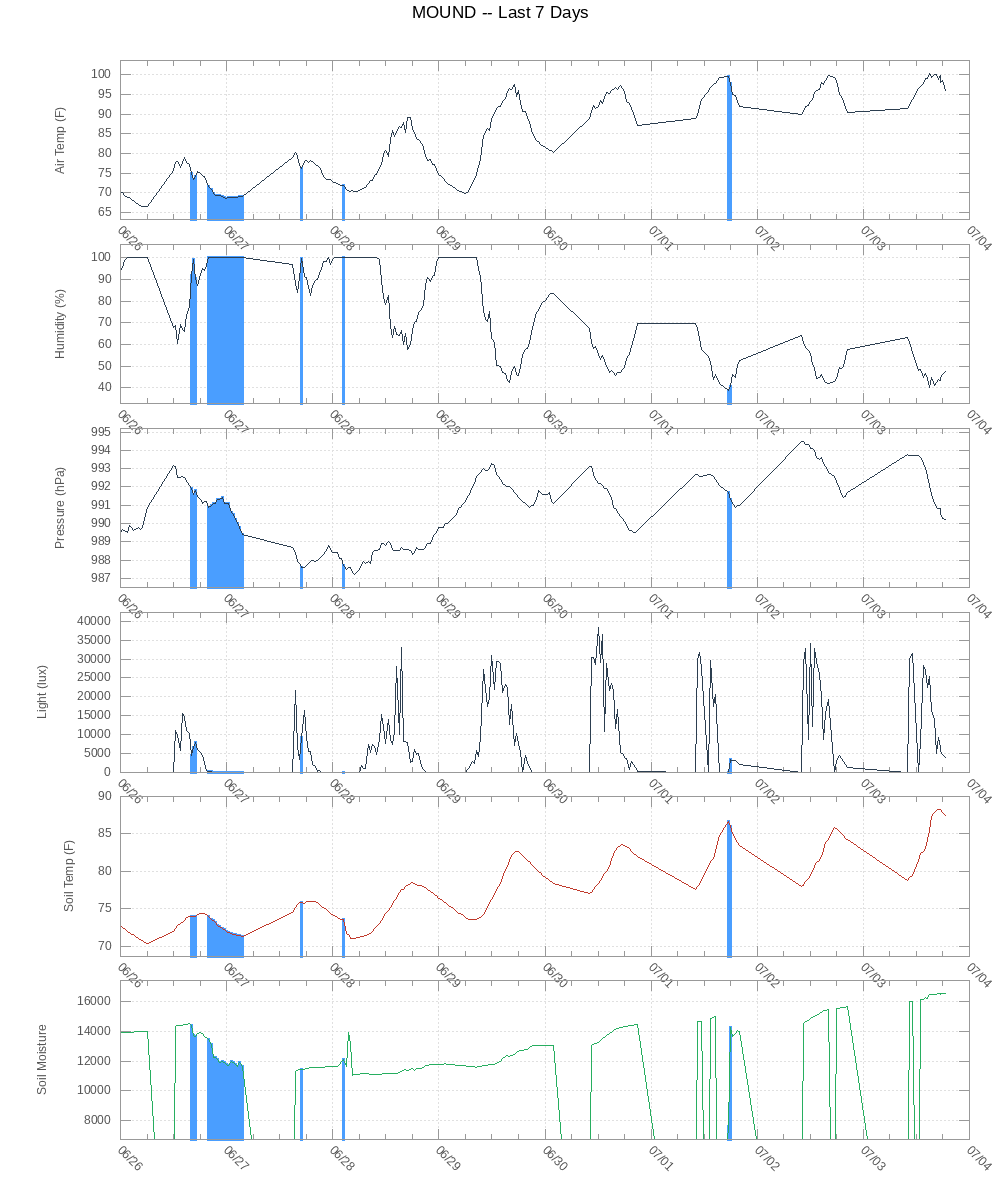
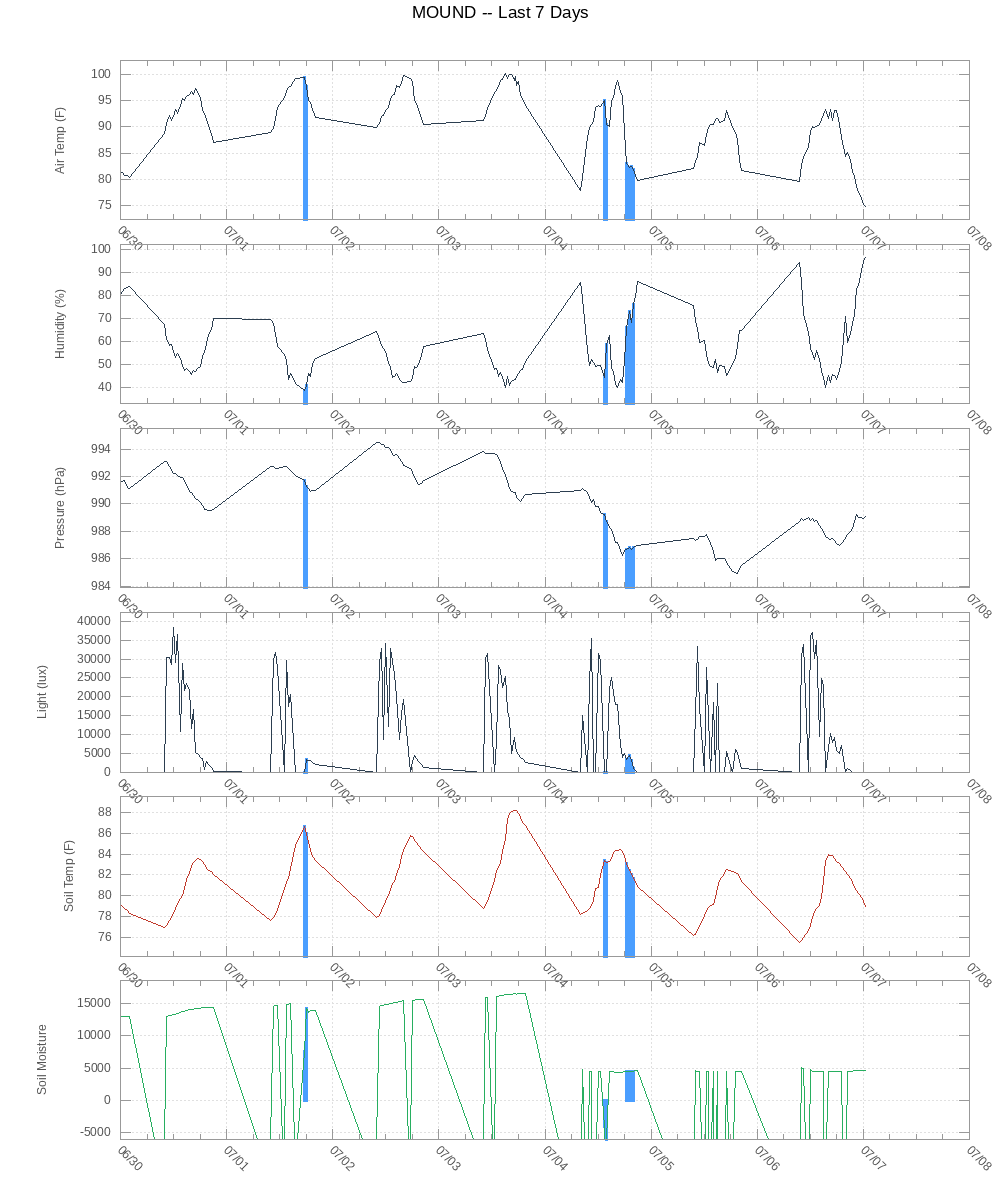
backup

diff --git a/mound/index.html b/mound/index.html
@@ -38,21 +38,21 @@
 
       <hr style="border:none; border-top: 1px solid #ccc; margin: 1rem 0;">
 
-      <p><strong>Last reading:</strong> 2026-07-06 10:30:04</p>
+      <p><strong>Last reading:</strong> 2026-07-07 09:30:04</p>
 
       <table style="border:none; border-collapse:collapse; font-family:inherit; font-size:inherit; color:inherit;">
-        <tr><td style="padding: 0.2rem 1.5rem 0.2rem 0;">Air Temperature</td><td>84.1 F</td></tr>
-        <tr><td style="padding: 0.2rem 1.5rem 0.2rem 0;">Humidity</td><td>71.8%</td></tr>
-        <tr><td style="padding: 0.2rem 1.5rem 0.2rem 0;">Pressure</td><td>988.8 hPa</td></tr>
-        <tr><td style="padding: 0.2rem 1.5rem 0.2rem 0;">Light</td><td>33773 lux</td></tr>
-        <tr><td style="padding: 0.2rem 1.5rem 0.2rem 0;">Soil Temperature</td><td>76.0 F</td></tr>
+        <tr><td style="padding: 0.2rem 1.5rem 0.2rem 0;">Air Temperature</td><td>79.6 F</td></tr>
+        <tr><td style="padding: 0.2rem 1.5rem 0.2rem 0;">Humidity</td><td>80.8%</td></tr>
+        <tr><td style="padding: 0.2rem 1.5rem 0.2rem 0;">Pressure</td><td>991.1 hPa</td></tr>
+        <tr><td style="padding: 0.2rem 1.5rem 0.2rem 0;">Light</td><td>25967 lux</td></tr>
+        <tr><td style="padding: 0.2rem 1.5rem 0.2rem 0;">Soil Temperature</td><td>76.3 F</td></tr>
         <tr><td style="padding: 0.2rem 1.5rem 0.2rem 0;">Soil Moisture</td><td>Saturated</td></tr>
         <tr><td style="padding: 0.2rem 1.5rem 0.2rem 0;">Rain</td><td>No</td></tr>
       </table>
 
       <hr style="border:none; border-top: 1px solid #ccc; margin: 1rem 0;">
 
-      <p><strong>Today -- 2026-07-06</strong></p>
+      <p><strong>Today -- 2026-07-07</strong></p>
 
       <figure>
         <img src="graphs/today.png"
@@ -85,6 +85,7 @@
 
       <p><strong>Daily Archive</strong></p>
       <ul style="list-style:none; padding:0;">
+<li><a href="graphs/archive/2026-07-06.png">2026-07-06</a></li>
 <li><a href="graphs/archive/2026-07-05.png">2026-07-05</a></li>
 <li><a href="graphs/archive/2026-07-04.png">2026-07-04</a></li>
 <li><a href="graphs/archive/2026-07-03.png">2026-07-03</a></li>
@@ -119,7 +120,7 @@
 
     </blockquote>
 
-    <p style="font-size: 0.85rem; color: #999;">2026-07-06 · auto-generated</p>
+    <p style="font-size: 0.85rem; color: #999;">2026-07-07 · auto-generated</p>
 
   </div>
 
